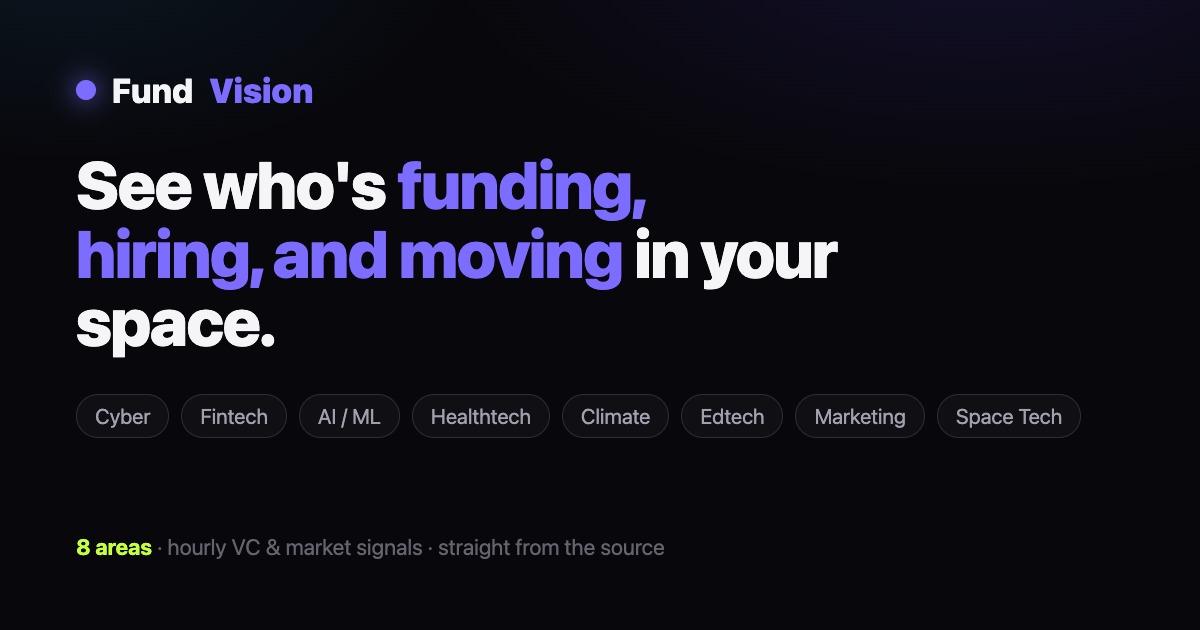
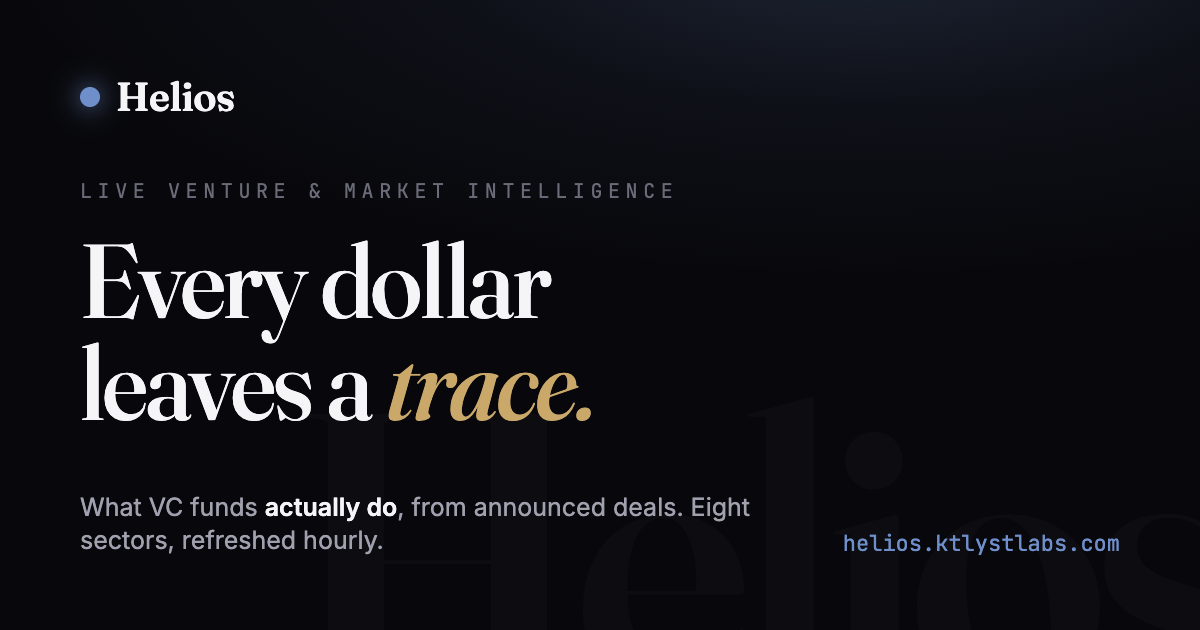
Point repo URLs at assafkip/helios + regenerate og-image as Helios (#3)
Repo renamed fundvision -> helios (public). Follow-through:
- index.html: star-button href + GitHub API star-count fetch now point to
  github.com/assafkip/helios (no reliance on GitHub's rename redirect).
- og-image.png regenerated on-brand for Helios: dark card, "Helios" logo + glow,
  the "Every dollar leaves a trace." hero line (gold italic), helios.ktlystlabs.com.
  Rendered 1200x630 from an on-brand HTML card (Fraunces + Inter), replacing the
  stale FundVision social card.

diff --git a/index.html b/index.html
@@ -374,7 +374,7 @@
   <div class="logo"><span class="dot"></span>Helios</div>
   <button class="back" id="back"><span>&larr;</span> all markets</button>
   <div class="live"><span class="live-dot"></span><span class="n" id="tracked">0</span>&nbsp;signals live</div>
-  <a class="ghstar" id="ghStar" href="https://github.com/assafkip/fundvision" target="_blank" rel="noopener" title="Star Helios on GitHub" aria-label="Star Helios on GitHub">
+  <a class="ghstar" id="ghStar" href="https://github.com/assafkip/helios" target="_blank" rel="noopener" title="Star Helios on GitHub" aria-label="Star Helios on GitHub">
     <svg class="ghmark" width="15" height="15" viewBox="0 0 16 16" fill="currentColor" aria-hidden="true"><path d="M8 0C3.58 0 0 3.58 0 8c0 3.54 2.29 6.53 5.47 7.59.4.07.55-.17.55-.38 0-.19-.01-.82-.01-1.49-2.01.37-2.53-.49-2.69-.94-.09-.23-.48-.94-.82-1.13-.28-.15-.68-.52-.01-.53.63-.01 1.08.58 1.23.82.72 1.21 1.87.87 2.33.66.07-.52.28-.87.51-1.07-1.78-.2-3.64-.89-3.64-3.95 0-.87.31-1.59.82-2.15-.08-.2-.36-1.02.08-2.12 0 0 .67-.21 2.2.82.64-.18 1.32-.27 2-.27.68 0 1.36.09 2 .27 1.53-1.04 2.2-.82 2.2-.82.44 1.1.16 1.92.08 2.12.51.56.82 1.27.82 2.15 0 3.07-1.87 3.75-3.65 3.95.29.25.54.73.54 1.48 0 1.07-.01 1.93-.01 2.2 0 .21.15.46.55.38A8.013 8.013 0 0 0 16 8c0-4.42-3.58-8-8-8z"/></svg>
     <span class="ghtxt">Star</span><span class="ghcount" id="ghCount"></span>
   </a>
@@ -923,7 +923,7 @@ boot();
 (function () {
   const el = document.getElementById("ghCount");
   if (!el) return;
-  fetch("https://api.github.com/repos/assafkip/fundvision", { cache: "no-store" })
+  fetch("https://api.github.com/repos/assafkip/helios", { cache: "no-store" })
     .then(r => r.ok ? r.json() : null)
     .then(d => { if (d && d.stargazers_count > 0) el.textContent = d.stargazers_count; })
     .catch(() => {});